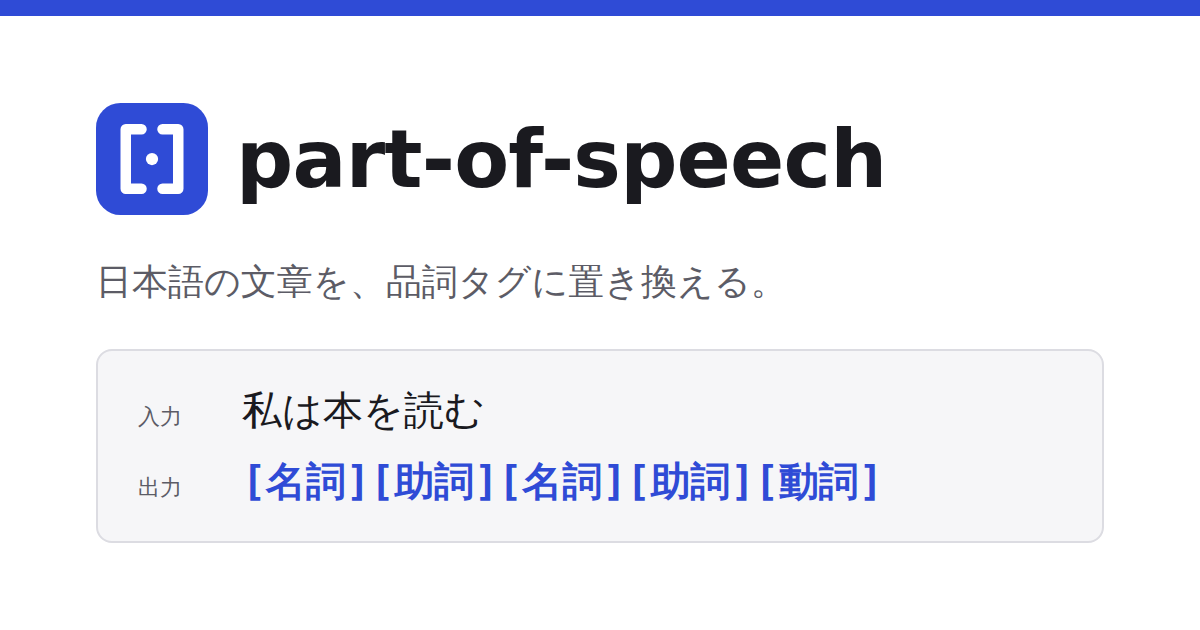
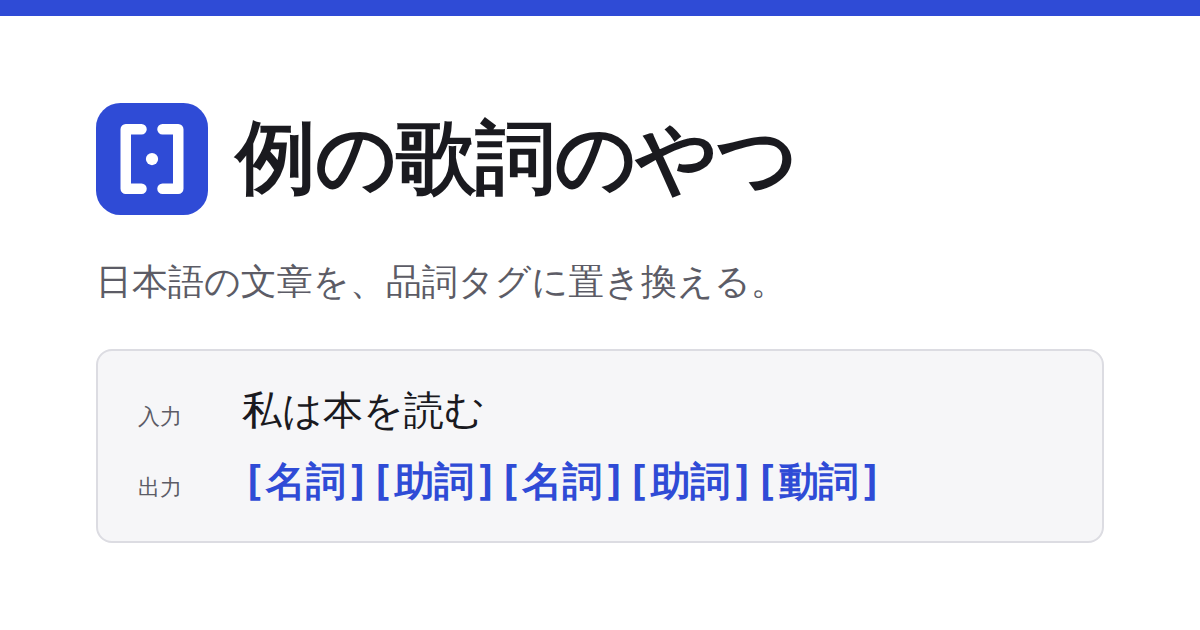
サイトのタイトルを「例の歌詞のやつ」に変更 (#37)
ページタイトル、ヘッダー、OGP メタタグと OGP 画像、README とブランドガイドの表記を変更。

Claude-Session: https://claude.ai/code/session_01LWaEL34NgVX3tSM38SqrjC

Changed region(s): [[0.185, 0.181, 0.74, 0.3317]]

diff --git a/web/index.html b/web/index.html
@@ -5,14 +5,14 @@
     <meta name="viewport" content="width=device-width, initial-scale=1.0" />
     <link rel="icon" type="image/svg+xml" href="/favicon.svg" />
     <link rel="apple-touch-icon" href="/apple-touch-icon.png" />
-    <title>part-of-speech</title>
+    <title>例の歌詞のやつ</title>
     <meta
       name="description"
       content="日本語の文章を形態素解析し、各語を [名詞] や [動詞] などの品詞タグに置き換えるツール。解析はすべてブラウザ内で完結します。"
     />
     <meta property="og:type" content="website" />
-    <meta property="og:site_name" content="part-of-speech" />
-    <meta property="og:title" content="part-of-speech" />
+    <meta property="og:site_name" content="例の歌詞のやつ" />
+    <meta property="og:title" content="例の歌詞のやつ" />
     <meta
       property="og:description"
       content="日本語の文章を [名詞][助詞][動詞] のような品詞タグに置き換える。解析はすべてブラウザ内で完結します。"
@@ -21,13 +21,13 @@
     <meta property="og:image" content="https://kurogoma4d.github.io/part-of-speech/og-image.png" />
     <meta property="og:image:width" content="1200" />
     <meta property="og:image:height" content="630" />
-    <meta property="og:image:alt" content="part-of-speech のロゴと、日本語を品詞タグに置き換える例" />
+    <meta property="og:image:alt" content="例の歌詞のやつ のロゴと、日本語を品詞タグに置き換える例" />
     <meta name="twitter:card" content="summary_large_image" />
   </head>
   <body>
     <header class="site-header">
       <img class="site-header__logo" src="/logo.svg" alt="" width="32" height="32" />
-      <span class="site-header__name">part-of-speech</span>
+      <span class="site-header__name">例の歌詞のやつ</span>
     </header>
     <main class="converter">
       <section class="pane">

diff --git a/web/scripts/og-image.html b/web/scripts/og-image.html
@@ -20,7 +20,7 @@
   .out { font-family: ui-monospace,"DejaVu Sans Mono","Noto Sans Mono CJK JP",monospace; font-size: 40px; font-weight: 700; color: var(--accent); }
 </style>
 <body>
-  <div class="brand"><img src="../public/logo.svg" alt="" /><span>part-of-speech</span></div>
+  <div class="brand"><img src="../public/logo.svg" alt="" /><span>例の歌詞のやつ</span></div>
   <p class="lead">日本語の文章を、品詞タグに置き換える。</p>
   <div class="card">
     <div class="row"><span class="label">入力</span><span class="src">私は本を読む</span></div>

diff --git a/web/src/title.test.ts b/web/src/title.test.ts
@@ -1,6 +1,6 @@
 import { expect, test } from "vitest";
 import { appTitle } from "./title";
 
-test("appTitle is part-of-speech", () => {
-	expect(appTitle).toBe("part-of-speech");
+test("appTitle is 例の歌詞のやつ", () => {
+	expect(appTitle).toBe("例の歌詞のやつ");
 });

diff --git a/web/src/title.ts b/web/src/title.ts
@@ -1,1 +1,1 @@
-export const appTitle = "part-of-speech";
+export const appTitle = "例の歌詞のやつ";

diff --git a/docs/brand.md b/docs/brand.md
@@ -1,6 +1,6 @@
 # ブランドガイド
 
-part-of-speech の見た目と言葉づかいのルール。`web/src/styles/tokens.css` は、色（ライト/ダーク）、タイポグラフィ（フォント・サイズ・太さ・行間）、余白、角丸をカスタムプロパティとして定義しており、他の CSS はこれらを参照する。罫線やフォーカス輪郭の太さ・オフセット（`1px`、`2px`）はトークン化しておらず、`web/src/styles/base.css` に固定値で書かれている。
+例の歌詞のやつ の見た目と言葉づかいのルール。`web/src/styles/tokens.css` は、色（ライト/ダーク）、タイポグラフィ（フォント・サイズ・太さ・行間）、余白、角丸をカスタムプロパティとして定義しており、他の CSS はこれらを参照する。罫線やフォーカス輪郭の太さ・オフセット（`1px`、`2px`）はトークン化しておらず、`web/src/styles/base.css` に固定値で書かれている。
 
 ## 1. トーン & マナー
 

diff --git a/README.md b/README.md
@@ -1,4 +1,4 @@
-# part-of-speech
+# 例の歌詞のやつ
 
 日本語のテキストを分かち書きし、各単語を `[名詞]` `[動詞]` のような品詞タグに置き換えて表示する Web サイトです。記号・伸ばし棒・波ダッシュ・空白・改行は元の文字のまま残ります。
 
